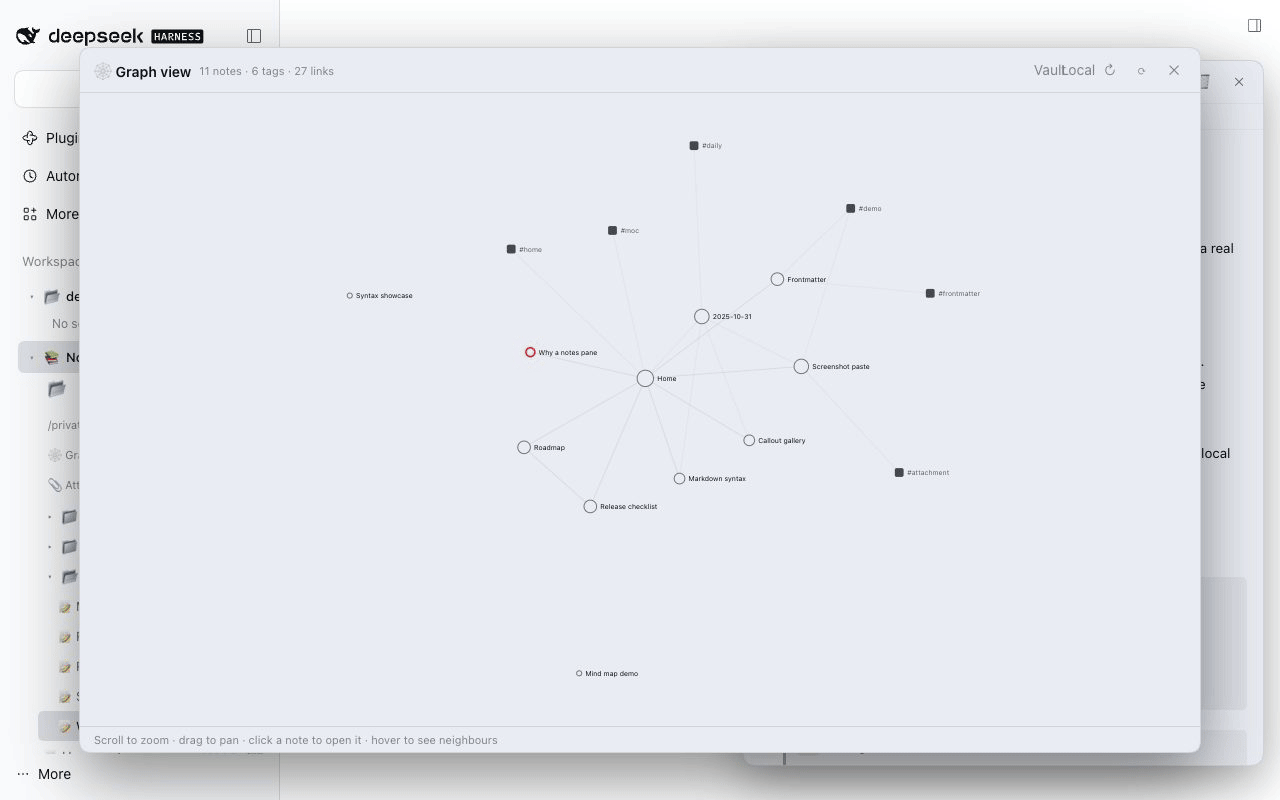
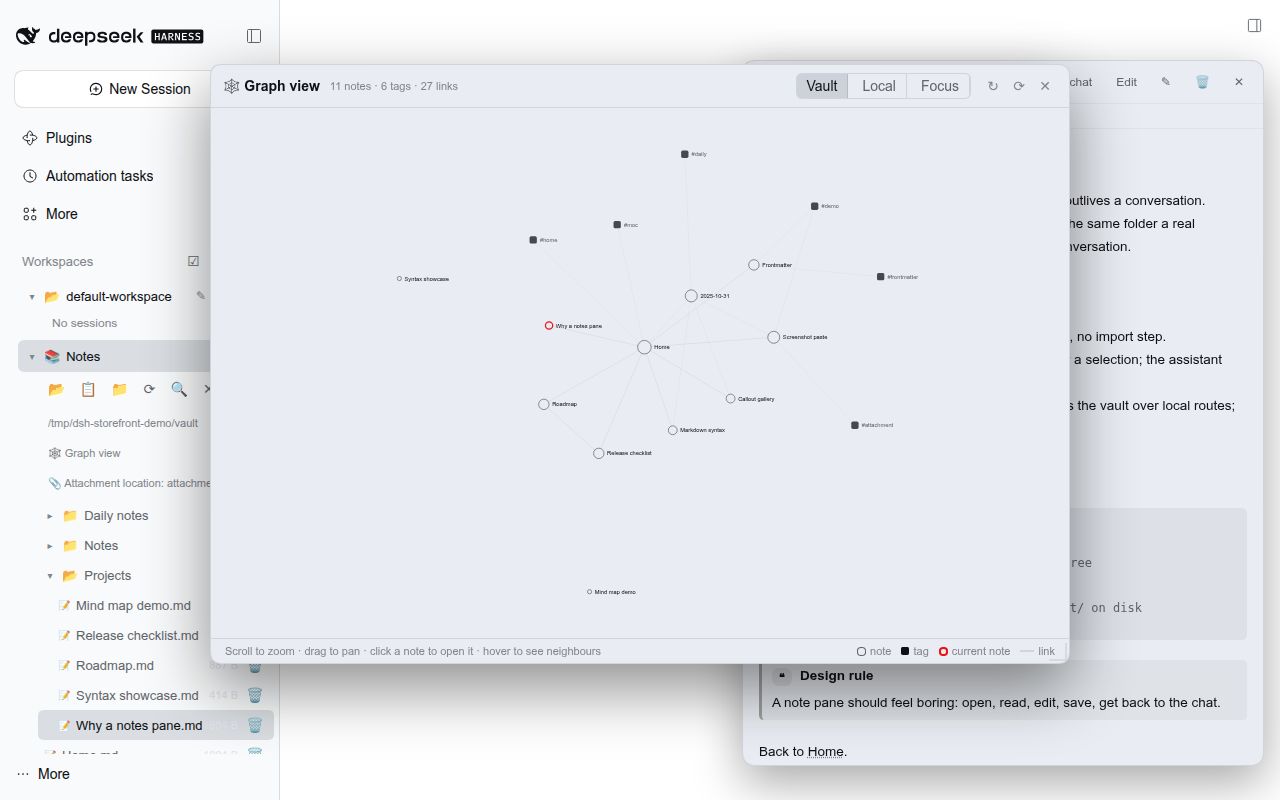
docs(demo): 重新生成 README 截图与 hero GIF（0.6.2 界面）
- 只读预览不带行号后的 sidebar / callouts / markdown / ask 截图；
- 图谱截图换成带 全库/局部/聚焦 的新头部；
- hero GIF 按新预览与提问流程重录（demo 文案同步去掉「预览带行号」说法）；
- 截图说明改为 Callouts, task lists, badges / Vault / Local / Focus。

diff --git a/README.md b/README.md
@@ -40,7 +40,7 @@ choose, and the client talks to the host over its own loopback routes.
 
 ## Screenshots
 
-| Notes tree + docked preview | Callouts, inline syntax, badges |
+| Notes tree + docked preview | Callouts, task lists, badges |
 | --- | --- |
 | ![Sidebar notes tree with the preview dock open](https://raw.githubusercontent.com/revive123456/dsh-obsidian-notes/main/docs/assets/screenshot-sidebar.png) | ![Coloured Obsidian callouts with one source line per rendered line](https://raw.githubusercontent.com/revive123456/dsh-obsidian-notes/main/docs/assets/screenshot-callouts.png) |
 
@@ -48,7 +48,7 @@ choose, and the client talks to the host over its own loopback routes.
 | --- | --- |
 | ![Table with column alignment and a TypeScript code fence](https://raw.githubusercontent.com/revive123456/dsh-obsidian-notes/main/docs/assets/screenshot-markdown.png) | ![Editor with line numbers and Save button](https://raw.githubusercontent.com/revive123456/dsh-obsidian-notes/main/docs/assets/screenshot-editing.png) |
 
-| Mind map from headings + lists | Vault-wide graph view (notes, links, tags) |
+| Mind map from headings + lists | Vault-wide graph — Vault / Local / Focus |
 | --- | --- |
 | ![Mind map view built from the note headings and list items](https://raw.githubusercontent.com/revive123456/dsh-obsidian-notes/main/docs/assets/screenshot-mindmap.png) | ![Relation graph of the whole vault: notes as circles, tags as squares, links as lines](https://raw.githubusercontent.com/revive123456/dsh-obsidian-notes/main/docs/assets/screenshot-graph.png) |
 

diff --git a/README.zh.md b/README.zh.md
@@ -27,7 +27,7 @@
 
 ## 截图
 
-| 侧边栏笔记树 + 右侧预览 | Callout、行内语法、类型徽标 |
+| 侧边栏笔记树 + 右侧预览 | Callout、任务列表、类型徽标 |
 | --- | --- |
 | ![侧边栏笔记树与右侧预览](https://raw.githubusercontent.com/revive123456/dsh-obsidian-notes/main/docs/assets/screenshot-sidebar.png) | ![彩色 Obsidian callout，一行源码对应一行渲染](https://raw.githubusercontent.com/revive123456/dsh-obsidian-notes/main/docs/assets/screenshot-callouts.png) |
 
@@ -35,7 +35,7 @@
 | --- | --- |
 | ![带列对齐的表格与 TypeScript 代码块](https://raw.githubusercontent.com/revive123456/dsh-obsidian-notes/main/docs/assets/screenshot-markdown.png) | ![带行号的编辑器与保存按钮](https://raw.githubusercontent.com/revive123456/dsh-obsidian-notes/main/docs/assets/screenshot-editing.png) |
 
-| 由标题 + 列表生成的思维导图 | 全库关系图谱（笔记、双链、标签） |
+| 由标题 + 列表生成的思维导图 | 全库关系图谱——全库 / 局部 / 聚焦 |
 | --- | --- |
 | ![由笔记标题与列表生成的思维导图](https://raw.githubusercontent.com/revive123456/dsh-obsidian-notes/main/docs/assets/screenshot-mindmap.png) | ![全库关系图谱：圆圈是笔记、方块是标签、线是双链/标签关系](https://raw.githubusercontent.com/revive123456/dsh-obsidian-notes/main/docs/assets/screenshot-graph.png) |
 

diff --git a/tools/demo/vault/Notes/Callout gallery.md b/tools/demo/vault/Notes/Callout gallery.md
@@ -1,7 +1,7 @@
 # Callout gallery
 
 Obsidian callouts are `> [!type] Optional title` blocks. The preview keeps one
-source line per rendered line (line numbers on the left) and draws the coloured
+source line per rendered line and draws the coloured
 callout spine across all lines of the block.
 
 > [!note] A note with an explicit title
@@ -25,7 +25,7 @@ callout spine across all lines of the block.
 > Nothing exploded.
 
 > [!question] Question / help / faq
-> Why are there line numbers on every preview? So a quote can cite an exact line.
+> Why does every source line get its own row? So a quote can cite an exact line.
 
 > [!warning] Warning / caution / attention
 > Watch the attachment folder before moving it.

diff --git a/tools/demo/vault/Projects/Why a notes pane.md b/tools/demo/vault/Projects/Why a notes pane.md
@@ -8,7 +8,7 @@ Obsidian vault uses — and renders it next to the conversation.
 
 1. **Your files stay yours.** Plain `.md`, no database, no import step.
 2. **The chat can read them.** Cite a whole note or a selection; the assistant
-   receives the path, the line numbers and the text.
+   receives the path, the line range and the text.
 3. **Nothing leaves the machine.** The host serves the vault over local routes;
    there is no telemetry and no outbound request.
 

diff --git a/tools/demo/vault/Notes/Markdown syntax.md b/tools/demo/vault/Notes/Markdown syntax.md
@@ -1,7 +1,7 @@
 # Markdown syntax
 
 A walk through the constructs the preview renders with real layout, not a
-monospace dump. Each source line keeps its line number on the left.
+monospace dump. Each source line gets its own row.
 
 ## Table alignment
 
